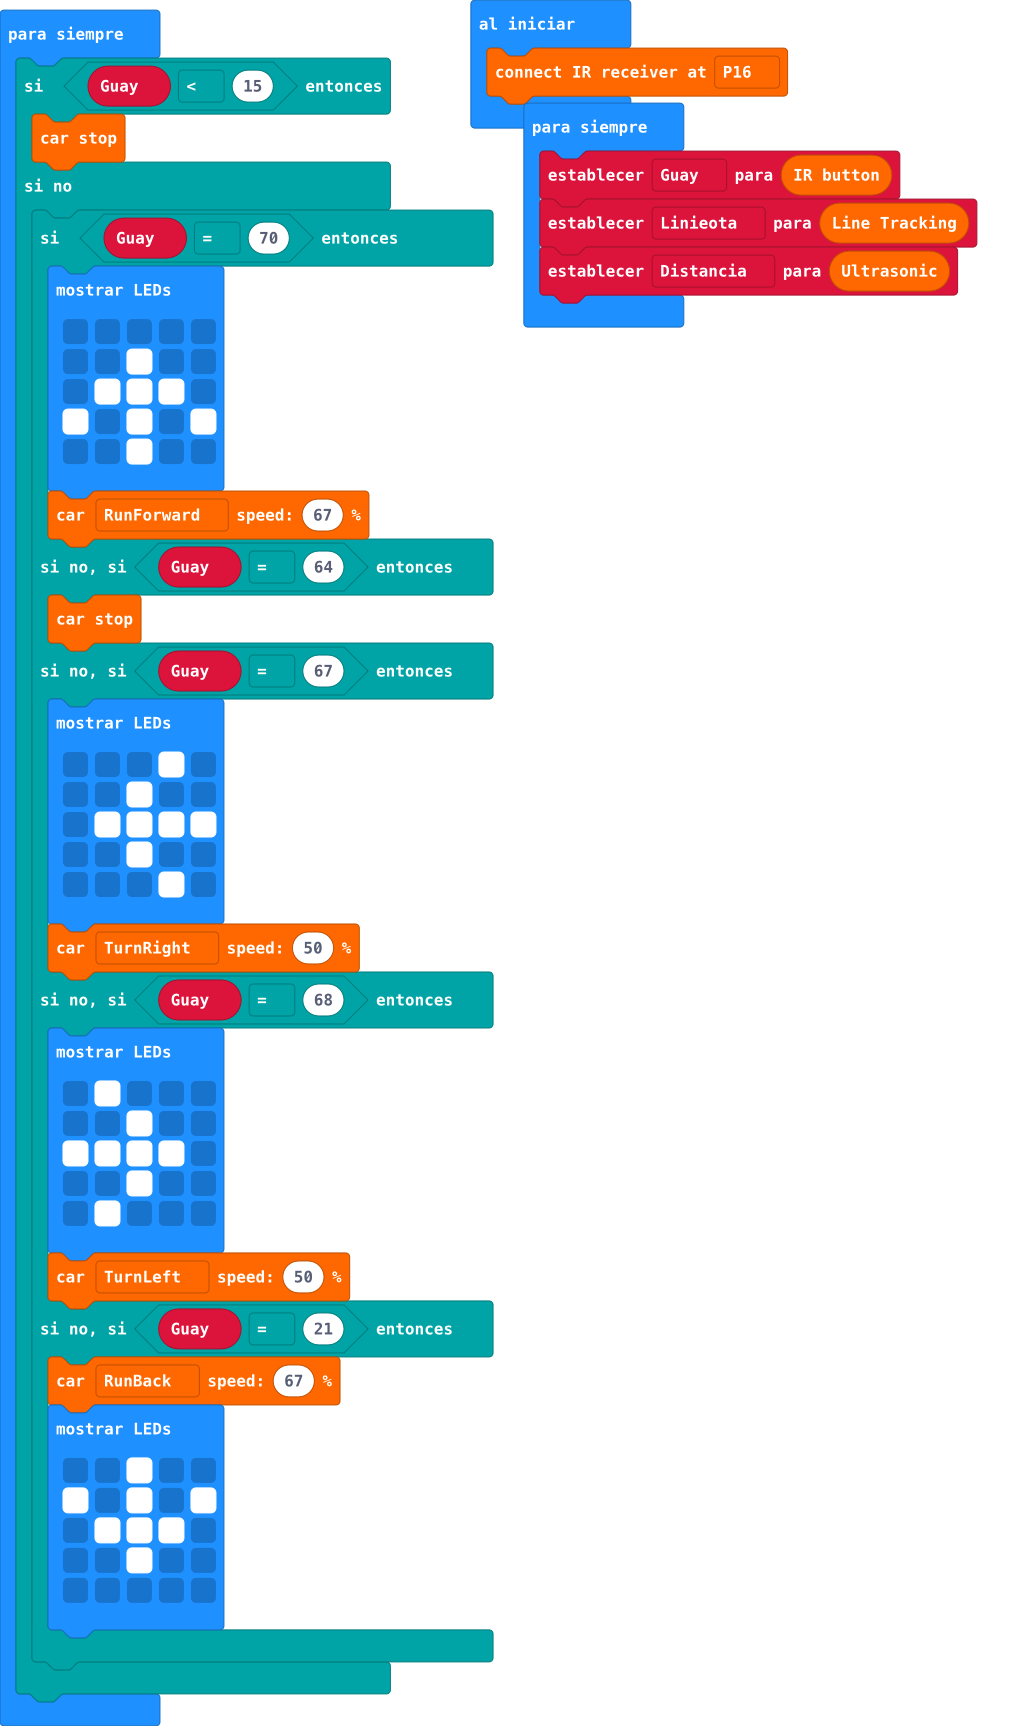
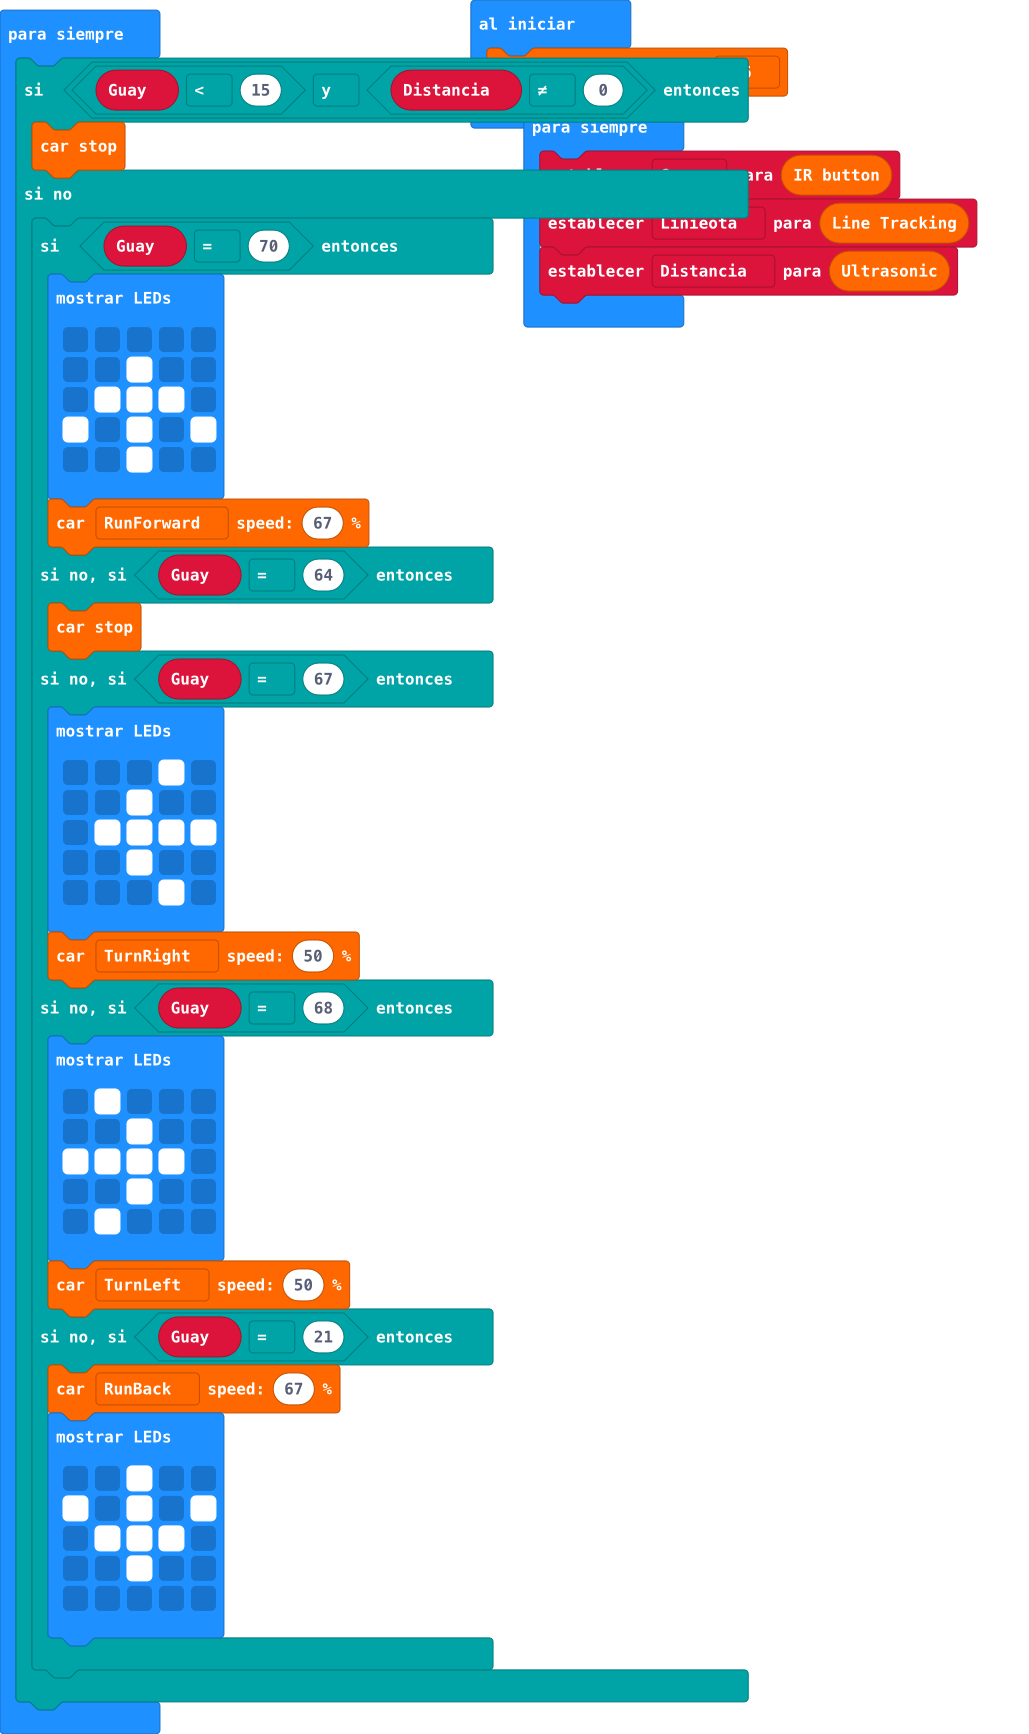
Actualizar main.blocks, main.ts

Changed region(s): [[0.0311, 0.0307, 0.9329, 0.8905], [0.3732, 0.9519, 0.7464, 0.9826]]

diff --git a/main.ts b/main.ts
@@ -1,9 +1,9 @@
-let Distancia = 0
 let Linieota = 0
+let Distancia = 0
 let Guay = 0
 irRemote.connectInfrared(DigitalPin.P16)
 basic.forever(function () {
-    if (Guay < 15) {
+    if (Guay < 15 && Distancia != 0) {
         k_Bit.carStop()
     } else {
         if (Guay == 70) {
